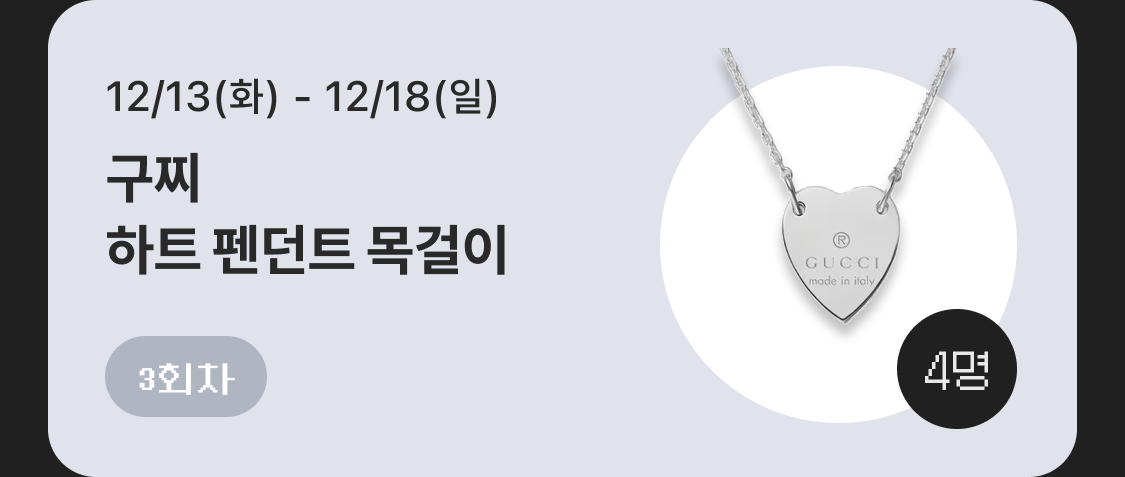
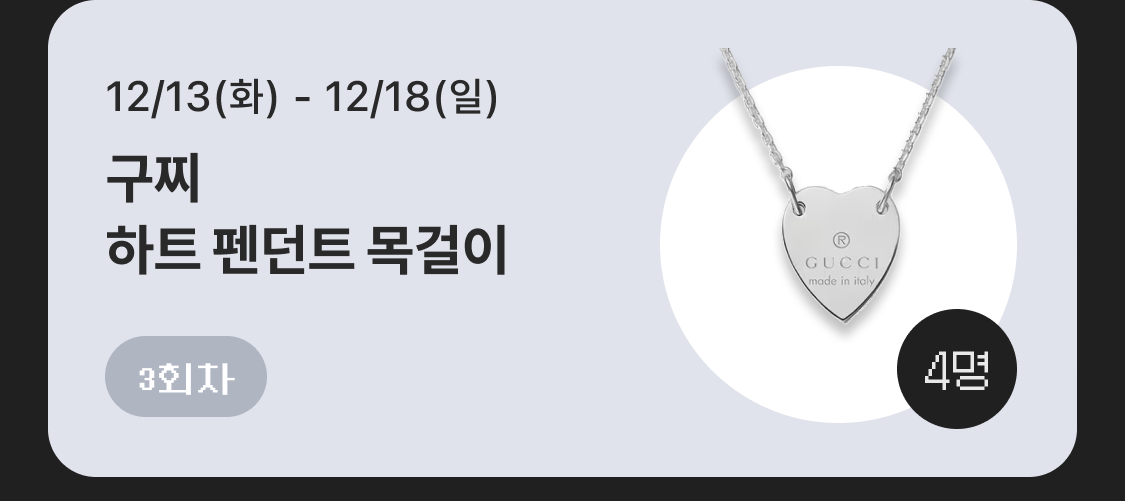
changed Img

diff --git a/xmasEvent_2022/style.css b/xmasEvent_2022/style.css
@@ -50,7 +50,7 @@ div{
 
 .scheduleImg{
 	width: 100%;
-	margin-bottom:8px;
+
 }
 
 #btn{

diff --git a/xmasEvent_2022_QA/style.css b/xmasEvent_2022_QA/style.css
@@ -50,7 +50,6 @@ div{
 
 .scheduleImg{
 	width: 100%;
-	margin-bottom:8px;
 }
 
 #btn{
